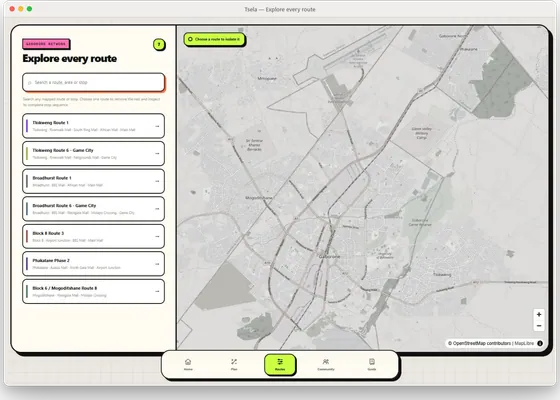
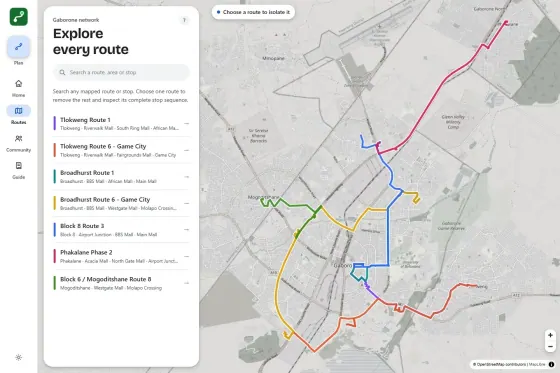
feat(gallery): show Tsela's four redesigned surfaces
Tsela's marketing site, rider app, admin dashboard, and developer
portal all changed in its WO-22 redesign. Replace the Gallery's four
Tsela screenshots (two of them pre-redesign) with the same four
fresh ones baked for the profile README: rider app, marketing site,
admin dashboard, and developer portal.

diff --git a/src/data/projects.ts b/src/data/projects.ts
@@ -117,10 +117,10 @@ export const projects: Project[] = [
     frame: 'browser',
     theme: { from: '#0a1f44', to: '#0e5a94', glow: '#2dd4bf' },
     shots: [
-      { file: 'rider-routes', alt: 'The Tsela rider app in a Mac window: every mapped route in Gaborone, with search and a route list', caption: 'Rider app: explore every route', w: 1280, h: 949, frame: 'bare' },
-      { file: 'rider-live-route', alt: 'The Tsela rider app: live trip guidance for Tlokweng Route 1, with a stop picker', caption: 'Rider app: live trip guidance', w: 1440, h: 960 },
-      { file: 'home', alt: 'Tsela’s marketing site: “Know which combi gets you there”, with a route preview map', caption: 'Marketing site', w: 1440, h: 960 },
-      { file: 'route', alt: 'A route detail page in the admin console, with stops and a street map', caption: 'Route detail and map', w: 1440, h: 960 },
+      { file: 'rider-routes', alt: 'The Tsela rider app: every mapped route in Gaborone, with search and a route list', caption: 'Rider app: explore every route', w: 1440, h: 960 },
+      { file: 'marketing-home', alt: 'Tsela’s marketing site: “Know which combi gets you there”, with a route preview map', caption: 'Marketing site', w: 1440, h: 960 },
+      { file: 'admin-dashboard', alt: 'The Tsela admin dashboard: capacity and reliability across the network', caption: 'Admin dashboard', w: 1440, h: 960 },
+      { file: 'docs-console', alt: 'The Tsela developer portal: the API console with credentials and usage', caption: 'Developer portal', w: 1440, h: 960 },
     ],
   },
   {
